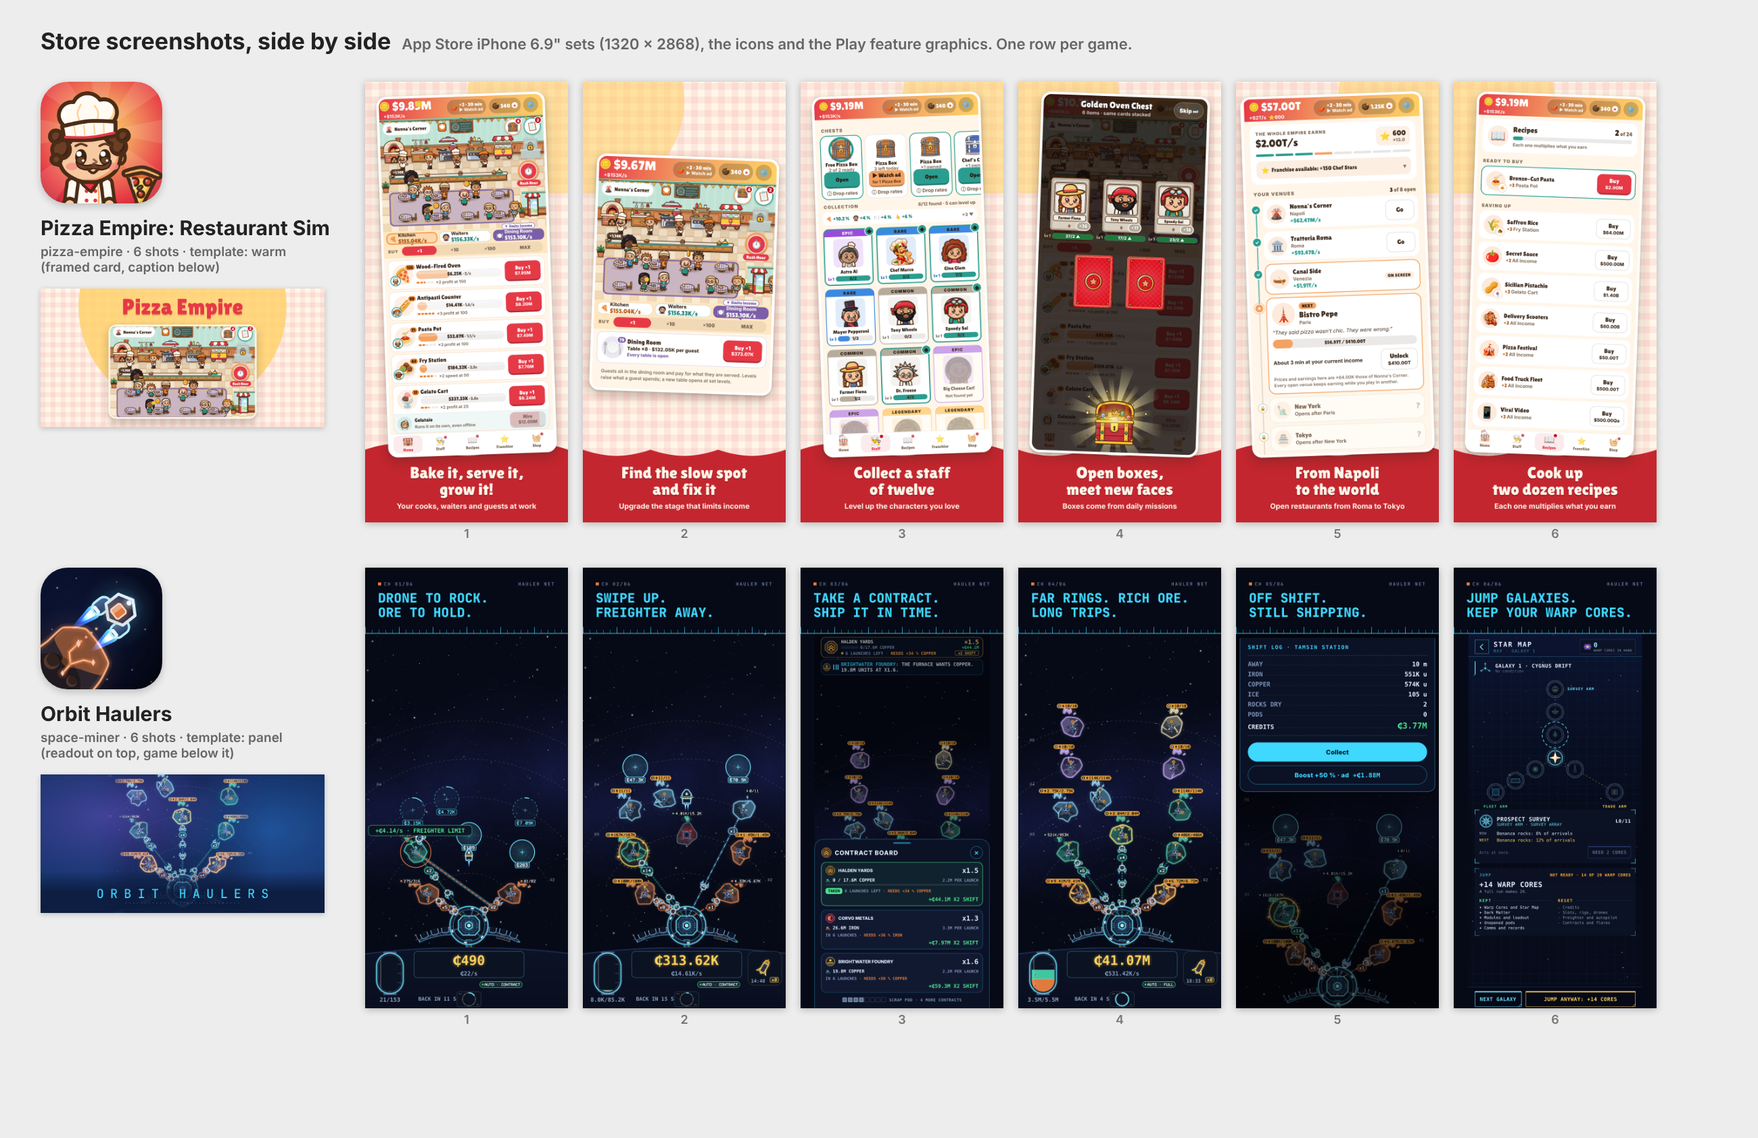
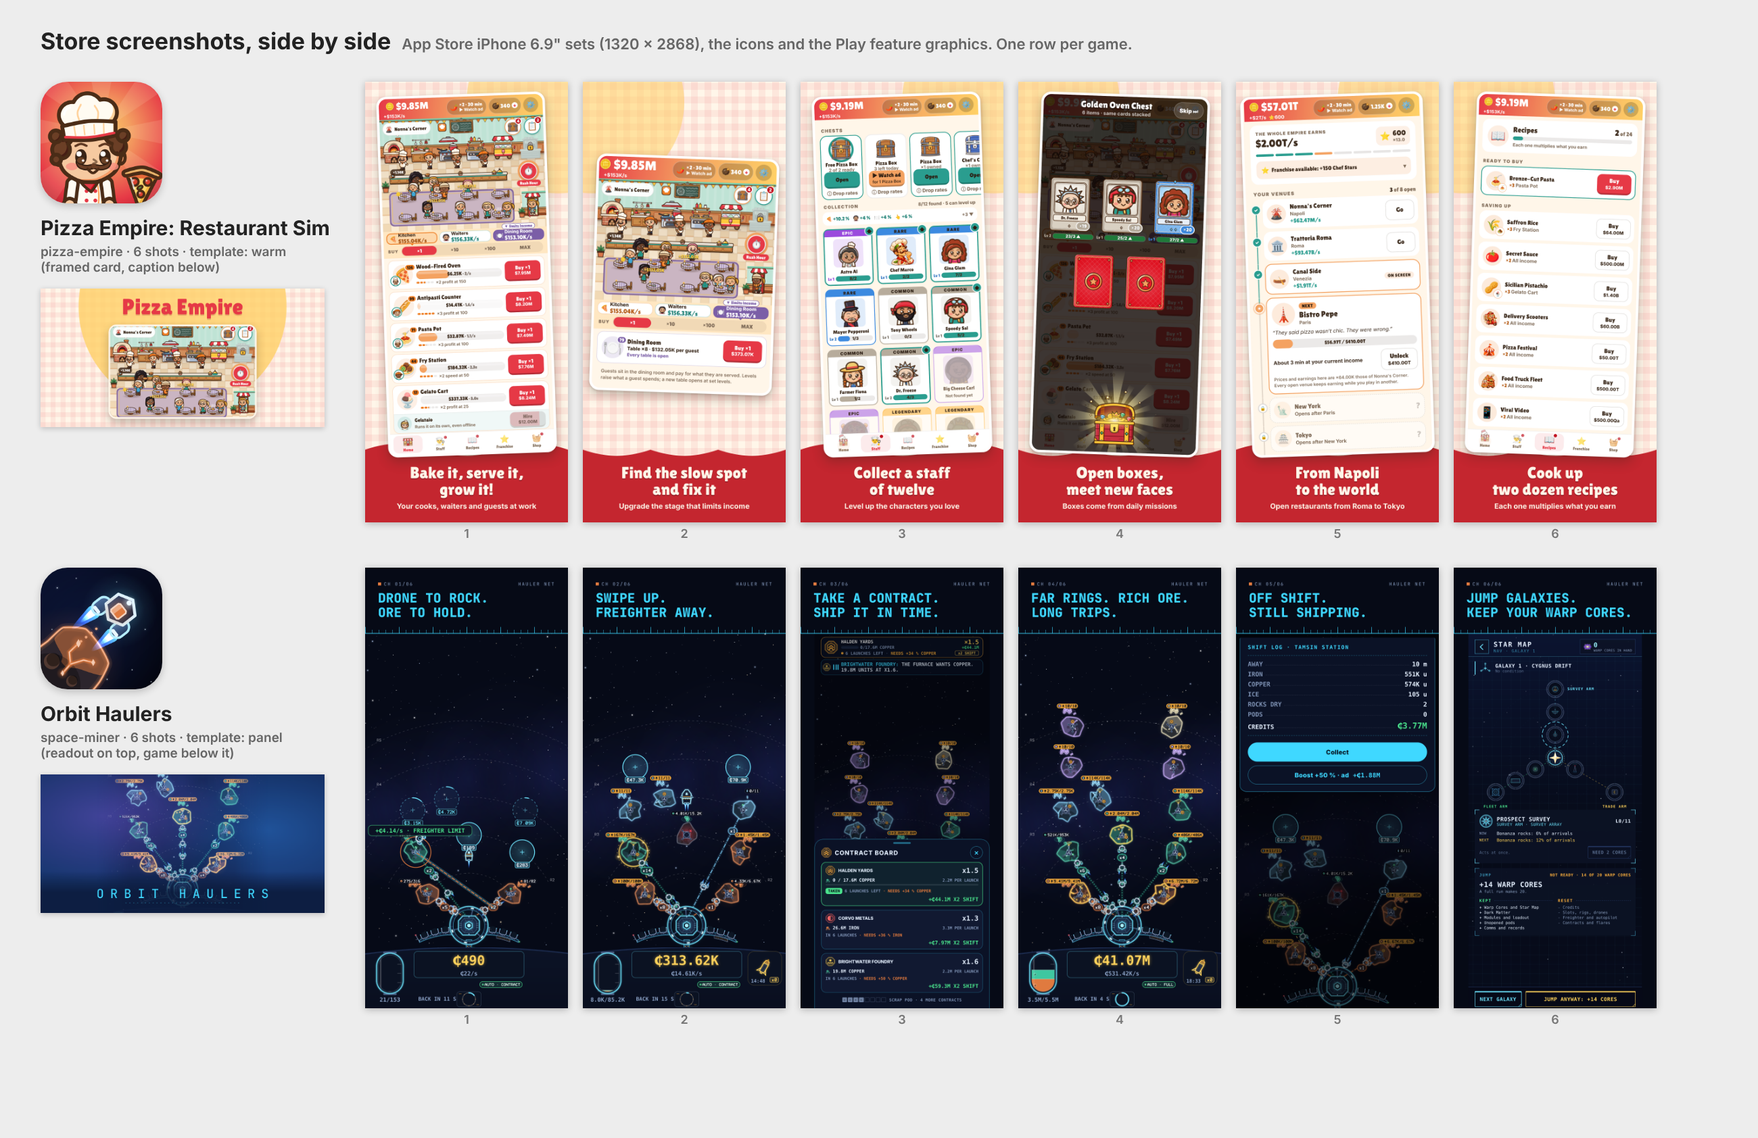
WIP: store screenshots on the final builds; final rules pass in progress
Claude-Session: https://claude.ai/code/session_01DEV5UwHtj2bSoyrJab4q6m

diff --git a/src/engine/haul.audit3.test.ts b/src/engine/haul.audit3.test.ts
@@ -137,9 +137,11 @@ describe('audit 3: the board offers a choice (Decision 40, play-7)', () => {
     // minutes to two hours that do, at least 15 % of 300 draws want two ores; one such station must
     // exist. On every one of them the offers want at least two different ores.
     const at = [1200, 1500, 1800, 2400, 3000, 3600, 5400, 7200];
-    const r = runHaulBot(cfg, { hours: 7210 / 3600, prestige: false, seed: 12345, keepAt: at, noOffline: true });
+    // Fourth rules check (NEW[5]): seed 12345's bot never ships three ores by two hours (copper and
+    // iron only), so seed 99 (three ores at 90 minutes) is searched too, and one station must qualify.
     let stations = 0;
-    for (const t of at) {
+    const runs = [12345, 99].map((seed) => runHaulBot(cfg, { hours: 7210 / 3600, prestige: false, seed, keepAt: at, noOffline: true }));
+    for (const [r, t] of runs.flatMap((r) => at.map((t) => [r, t] as const))) {
       const g = r.states[t] as Run;
       const b = H.contractBasis(cfg, H.haulParams(cfg, g), g.haul);
       const total = Object.values(b.recent).reduce((a, x) => a + x, 0);
@@ -189,7 +191,10 @@ describe('the board is never empty (the lead, finishing round)', () => {
             // second ore brings more (boardNote); every other station keeps at least two offers.
             // (A board drawn while two ores shipped keeps its offers until they expire; no new one comes.)
             if (H.boardNote(cfg, g) === 'secondOre') expect(g.haul.contracts.board.length, `seed ${seed} t=${t} warp ${warps}`).toBeGreaterThanOrEqual(1);
-            else expect(offers, `seed ${seed} t=${t} warp ${warps}`).toBeGreaterThanOrEqual(2);
+            // Fourth rules check (the lead's ruling on NEW[1]): a place that cannot be filled without
+            // a duplicate or a free offer stays empty until the next warp-out, so a station whose
+            // other ores have no room may show one offer (next to its taken contract); never none.
+            else expect(offers, `seed ${seed} t=${t} warp ${warps}`).toBeGreaterThanOrEqual(1);
           }
         }
         expect(warps).toBe(3);

diff --git a/src/engine/haul.decision64.test.ts b/src/engine/haul.decision64.test.ts
@@ -285,6 +285,12 @@ describe('the freighter bounds every order (the play confirmation after Decision
         const h: H.HaulState = { ...g0.haul, contracts: { ...g0.haul.contracts, unlocked: true, board: [offer], next: 12, active: null } };
         H.refloorOffers(cfg, p, h);
         const after = h.contracts.board[0];
+        // Fourth rules check (the lead's ruling on NEW[1]): an offer the resize cannot lift out of
+        // green within the holds leaves the board (its place waits for the next warp-out).
+        if (!after) {
+          expect(st[ore] * (1 + C.raise[0] / 2)).toBeGreaterThan(p.F * C.maxShare * 0.9);
+          continue;
+        }
         expect(after.wants[0].units).toBeLessThanOrEqual(Math.max(offer.wants[0].units, Math.floor(L * p.F * C.maxShare)));
         fits({ ...g0, haul: h }, after);
       }

diff --git a/src/engine/haul/trade.ts b/src/engine/haul/trade.ts
@@ -1127,7 +1127,8 @@ export function refloorOffers(cfg: HaulConfig, params: HaulParams, h: HaulState)
       for (let j = 0; j < i; j++) {
         const u = V[j];
         if (drop.has(j) || u.contract.taken || keyOf(u.contract) !== keyOf(v.contract)) continue;
-        if (Math.abs(raiseOf(u) - raiseOf(v)) < C.raiseGap - 1e-6 || raiseOf(u) === raiseOf(v)) drop.add(i);
+        // (An ore with no route has no raise figure: such offers are never compared.)
+        if (Number.isFinite(raiseOf(u)) && Number.isFinite(raiseOf(v)) && Math.abs(raiseOf(u) - raiseOf(v)) < C.raiseGap - 1e-6) drop.add(i);
       }
     });
     if (drop.size) {

diff --git a/scripts/store/README.md b/scripts/store/README.md
@@ -14,8 +14,11 @@ export served as static files: it has no development overlays at all.
 GAME=pizza-empire npx expo export -p web --output-dir /tmp/web-pizza-empire
 GAME=space-miner  npx expo export -p web --output-dir /tmp/web-space-miner
 npx serve /tmp/web-pizza-empire -l 8300 -s   # any static server; -s: single-page fallback
-npx serve /tmp/web-space-miner  -l 8301 -s
+npx serve /tmp/web-space-miner  -l 8302 -s
 ```
+
+The scenes' default ports: Pizza Empire 8300, Orbit Haulers 8302 (`--port N` for
+another one).
 
 (The preview switches the scenes use, `?preset=` and the rest, are read on any web
 build, not only in development: `src/dev/devtools.ts`, `src/ui/haul/dev.ts`. The
@@ -23,19 +26,24 @@ export path above was not run on this machine, where builds are not allowed; the
 images were made from development servers, `GAME=<id> npx expo start --web --port
 <port>`, which work too thanks to the overlay guard below.)
 
-Then ONE command makes every image of both games, into the repository:
+Then one command per game makes all of its images, into the repository:
 
 ```bash
-npx tsx scripts/store/shots.ts --game all --write
+npx tsx scripts/store/shots.ts --game pizza-empire --write   # 18 shots + feature graphic + the sheet
+npx tsx scripts/store/shots.ts --game space-miner --write    # 18 shots + feature graphic + the sheet
+npx tsx scripts/store/shots.ts --sheet --write               # only SIDE-BY-SIDE.png, from the images written
 ```
+
+(`--game all --write` does both. Careful: `--sheet` with `--game` still captures
+that game first; only `--sheet` alone makes just the sheet.)
 
 Without `--write` nothing in the repository changes: the images go to
 `scripts/store/.cache/out/<game>/` (git-ignored), so a trial run cannot replace the
 approved set. Options: `--out <dir>` (write to `<dir>/<game>/` instead),
-`--game pizza-empire|space-miner`, `--port N` (another preview port), `--only 1,3`
+`--game pizza-empire|space-miner|all`, `--port N` (another preview port), `--only 1,3`
 (scenes, 1-based), `--sizes ios-6.9,play-phone`, `--reuse` (compose again from the
 last captures, no preview needed: for template work), `--sheet` (only the
-side-by-side sheet). The log first says how many scenes and images the run makes.
+side-by-side sheet; without `--game`). The log first says how many scenes and images the run makes.
 A full run of both games takes about 10 to 15 minutes on a busy machine.
 
 A full run of a game (no `--only`) with `--write` also removes images of scenes
@@ -66,8 +74,18 @@ run bit-for-bit repeatable (freezing the game's clock needs a switch in the game
 Playwright's fake clock was tried and made each scene take minutes while still
 varying). What must be true of a picture is checked instead: a scene can carry a
 `check` on the page text (Orbit Haulers' Contract Board must show three different
-buyers and an active manifest; the launch shot must have launched; Pizza Empire's
-bottleneck shot must show "limits income"), and is taken again up to `tries` times.
+buyers with a TAKEN row first; the launch shot must have launched, read 1.5 s after
+the picture with `checkAfter`; the far-rings shot must have no radio line over the
+top of the field; Pizza Empire's bottleneck shot must show "limits income"), and is
+taken again up to `tries` times.
+
+Two moments are faster than the usual capture (three frames drawn at the store's
+pixel ratio, which take seconds on a busy machine): Orbit Haulers' freighter climbs
+for 2.5 s, and Pizza Empire's tutorial hand comes back 600 ms after a touch. Those
+scenes set `shotFrames: 1` (one frame, still sharp). Even so the freighter's place
+varies from run to run (on the pad, mid-field, or already gone): look at shot 2 of
+every size after a run and take it again (`--only 2 --sizes <size>`) until the
+freighter is over the field. The 6.9" image of 2026-11-22 was picked from five takes.
 
 ## What it writes
 
@@ -81,7 +99,7 @@ scripts/store/.cache/<game>/<size>/NN-<slug>.png/.json  raw captures and the ban
 scripts/store/.cache/out/                               trial runs (git-ignored)
 ```
 
-Pizza Empire has six shots, Orbit Haulers five.
+Each game has six shots (in a different story order and template).
 
 Every image is an 8-bit RGB PNG without an alpha channel (App Store Connect
 refuses alpha; Play asks for 24-bit PNG). The tool checks size and colour type
@@ -94,7 +112,9 @@ of each file it writes.
   the steps to reach the moment (taps, drags, a finger held down, waits, and
   `untilText`: wait for the app's own text, e.g. the freighter's "BACK IN n S"
   to go; `tapText`: a touch on the first text that matches, wherever the layout
-  put it), an optional `check` of the page text, the `frame` (the band of the
+  put it, or the `nth` match), an optional `check` of the page text (`checkAfter`:
+  read that many ms after the picture), `shotFrames` (frames drawn at the store's
+  pixel ratio before the picture, default 3), the `frame` (the band of the
   screen the image shows, below), the caption (at most six words) and, for Pizza
   Empire, the sub-line. Each game also names its feature graphic's scene and band.
   Orbit Haulers' touches and bands are placed with the game's own geometry
@@ -132,12 +152,12 @@ They differ in composition, not only in colour, and so do the two sets:
 
 | | Pizza Empire, "warm" | Orbit Haulers, "panel" |
 |---|---|---|
-| Set | six shots: restaurant, bottleneck, staff, chests, franchise, recipes | five shots: the full field, a drag, the Contract Board, the launch, the Star Map |
+| Set | six shots: restaurant, bottleneck, staff, chests, franchise, recipes | six shots: a drag (the first minutes), the launch, the Contract Board, the far rings, the Shift Log, the Star Map |
 | Game picture | framed: the phone screen on a white-edged rounded card with a soft shadow, leaning left and right in turn; a scene that shows a band of its screen gets a wider, shorter card | edge to edge under the readout, square corners, cropped to the band that matters (no empty starfield, no nav row) |
 | Caption position | below the picture, on a deep tomato sauce wave (the wave's highest bump at about 82 % of the height: the caption block is at most 18 % of the image, measured) | above the picture, on a hard-edged deep-blue readout panel (15 % of the 6.9" image, 18 % of the Play one); the panel never covers the game |
 | Type | Lilita One (the game's rounded display face), centred, sentence case, two lines; a cream sub-line in Inter Bold (5.4:1 on the band) | JetBrains Mono ExtraBold, left-aligned, capitals; headline only, no sub-line |
 | Colour | cream gingham, saffron sun, deep tomato #C4262F | deep blue #060A16, cyan #3FD8FF, amber #E07A3F |
-| Ornament and counter | none but the card; no set counter | channel counter "CH 01/05" (the only set counter of the two), tick-marked cyan rule |
+| Ornament and counter | none but the card; no set counter | channel counter "CH 01/06" (the only set counter of the two), tick-marked cyan rule |
 | Rhythm across the set | the card leans left, right, left...; the sun and the wave's bumps swap sides | rigid: every image on the same grid, like a log, the channel number counting up |
 | Feature graphic | centred and symmetric: the name in Lilita One over a big saffron sun, a wide crop of the restaurant scene under it (no phone, no tilt), on gingham; no icon, no tagline | the asteroid field around the station, its edges fading into a deep-blue nebula (#0B1A3A, the game's black space lifted by a screen blend), a thin letter-spaced cyan wordmark in the lower third; no icon, no tagline |
 
@@ -155,11 +175,11 @@ Each caption was checked against the picture the tool made.
 
 | # | Caption / sub-line | Address | Shows |
 |---|---|---|---|
-| 1 | Bake it, serve it, grow it! / Your cooks, waiters and guests at work | `preset=mid` | The restaurant at work: cooks at the stations, waiters carrying pizza, guests at the tables, the production chain and its upgrades below. |
-| 2 | Find the slow spot and fix it / Upgrade the stage that limits income | `preset=mid`, tap the "Dining Room" pill; band: top of the screen to the stage's description; check: "limits income" on screen | The busy restaurant with its bottleneck stage open: the Dining Room pill carries the game's "limits income" tag, its row offers the upgrade. The list under one stage is short, so the card shows the screen down to the stage's text (no empty cream; the earlier `preset=early` version had the tutorial hand on). |
+| 1 | Bake it, serve it, grow it! / Your cooks, waiters and guests at work | `preset=mid`; two touches on the "BUY" label (it does nothing), one frame | The restaurant at work: cooks at the stations, waiters carrying pizza, guests at the tables, the production chain and its upgrades below. The game's tutorial hand (which keeps pointing at the missions clipboard on a preset save: `nextHint` in `src/engine/meta.ts` counts it as a new player) hides for 600 ms after a touch, so the picture has no hand. |
+| 2 | Find the slow spot and fix it / Upgrade the stage that limits income | `preset=mid`, tap the "Dining Room" pill, then the "BUY" label (no hand), one frame; band: top of the screen to the stage's description; check: "limits income" on screen | The busy restaurant with its bottleneck stage open: the Dining Room pill carries the game's "limits income" tag, its row offers the upgrade. The list under one stage is short, so the card shows the screen down to the stage's text (no empty cream; the earlier `preset=early` version had the tutorial hand on). |
 | 3 | Collect a staff of twelve / Level up the characters you love | `preset=mid&tab=staff` | The Staff tab: chests and the collection of twelve characters (8/12 found, "can level up" marks). |
-| 4 | Open boxes, meet new faces / Boxes come from daily missions | `preset=mid&chest=golden`, two taps | A Golden Oven Chest being opened. Missions reward boxes ("Every 30th mission: Golden Oven Chest"). |
-| 5 | From Napoli all the way up / Eight restaurants, one pizza planet | `preset=mid&tab=empire` | The Franchise tab: Nonna's Corner in Napoli, then Roma, Venezia, Paris, New York, Tokyo, The Moon ("1 of 8 open"). |
+| 4 | Open boxes, meet new faces / Boxes come from daily missions | `preset=mid&chest=golden`, two taps | A Golden Oven Chest being opened. Missions reward boxes ("Every 30th mission: Golden Oven Chest"). What the chest holds varies by run; on the 2026-11-22 Play image two cash cards ("+$229.95M", "+$189.84M") show their amounts whole (the game now sizes that label by hand). |
+| 5 | From Napoli to the world / Open restaurants from Roma to Tokyo | `preset=late&tab=empire`; band: top of the screen to below Tokyo's row; check: Canal Side, Bistro Pepe and Tokyo on screen | The Franchise tab of a late save: Nonna's Corner (Napoli), Trattoria Roma and Canal Side (Venezia, on screen) open and earning, Bistro Pepe in Paris next, New York and Tokyo after it ("3 of 8 open"). The picture stops at Tokyo: the two venues after it (The Moon, Deep Space) are not shown or named, so the listing does not reach into space next to the same developer's space game. On the Play size the card ends at Bistro Pepe (the screen is shorter). |
 | 6 | Cook up two dozen recipes / Each one multiplies what you earn | `preset=mid&tab=upgrades` | The Recipes tab: "2 of 24", each recipe a multiplier. |
 
 Feature graphic: scene 1's restaurant, from the "Nonna's Corner" plate to just
@@ -167,16 +187,25 @@ above the stage pills.
 
 ### Orbit Haulers (panel, cold instrument)
 
+The set's story: what the player does in the first minutes (a drone to a rock, the
+freighter away), then contracts, the far rings, the autopilot's Shift Log and the
+Star Map. Words in the pictures are the game's own (`src/ui/haul/strings.ts`). The
+radio's first tutorial line ("Drone idle on the rack. Send it to the rock.") still
+plays on the mid and late presets: the field shots leave the radio slot out of the
+band, and the Contract Board and far-rings scenes wait for it to close.
+
 | # | Caption | Address and steps | Shows |
 |---|---|---|---|
-| 1 | Far rings. Rich ore. Long trips. | `preset=late`; field band | Every ring in use: iron, copper, ice, titanium and platinum rocks, drones in flight, the hold and the counter. Also the feature graphic's picture. |
-| 2 | Drone to rock. Ore to hold. | `preset=mid`; finger down on the route chip of slot 1, dragged onto the rock of slot 6 (first move past the slop in one event), held; check: the rig sheet did not open; field band | A running station: a drone pulled off a busy route onto a rock further out, the drag line and the target ring drawn. (The mid save's rack is empty, every drone is out, so the drone comes off a chip, which the game allows.) |
-| 3 | Buyers on the line. They lapse. | `preset=late&sheet=contracts&speed=6`, tap the first manifest ("if met"); band: top of the screen to the board's last line; check: three different buyers and an active manifest | The Contract Board over a late field: three buyers, the manifest just made ACTIVE, what each pays if met, the launches left; the contract strip and the buyer's radio line at the top. (At normal speed the late save's board shows the same buyer twice; `speed=6` lets the board turn over before the picture.) |
-| 4 | Swipe up. Freighter away. | `preset=mid`; wait until docked (no "BACK IN n S") and 1.5 s more, the launch swipe as one move, picture about 100 ms later; check: launched, no "CONTRACT MET" banner over the counter; field band | Just after the launch: the hold emptied, "BACK IN n S" on the bay, the freighter climbing off the pad (on a slow capture it is already out of the frame: the 6.5" image of this run). |
-| 5 | Jump. Pick the next galaxy. | `preset=late&spoke=starmap`, the "JUMP NOW" button scrolled into view (below the fold on the Play size); band: top of the screen to that button, shown whole (Play: the screen a little narrower than the image) | The Star Map with its own header (back, "STAR MAP · NAV · GALAXY 1", Warp Cores in hand, the galaxy plate), the nodes, "JUMP NOW: +24 WARP CORES", kept and reset lists. |
+| 1 | Drone to rock. Ore to hold. | `preset=early`; finger down on the route chip of slot 1, dragged onto the rock of slot 2 (first move past the slop in one event), held; check: the rig sheet did not open; field band | The first minutes: an early station (three rocks on the inner rings, ₵490, empty claim slots with their prices), a drone pulled off one route onto another rock, the drag line and its gain ("+₵4.14/s · FREIGHTER LIMIT"). |
+| 2 | Swipe up. Freighter away. | `preset=mid`; wait until docked (no "BACK IN n S") and 1.5 s more, the launch swipe as one move, picture after one frame (`shotFrames: 1`); check 1.5 s later: launched ("BACK IN n S" or WARPED), no "CONTRACT MET" banner; field band | The freighter climbing off the pad over the field, "BACK IN 15 S" on the bay. The freighter's height varies by run (see "Live state and retakes"). |
+| 3 | Take a contract. Ship it in time. | `preset=late`; wait for the tutorial line to close, tap "PICK A CONTRACT" on the strip, then the second row's rate; band: top of the screen to the pod counter; check: three different buyers, TAKEN row first, pod counter, no tutorial line | The Contract Board as rows: the TAKEN row first (Halden Yards, "0 / 17.6M COPPER", "6 LAUNCHES LEFT · NEEDS +34 % COPPER", "+₵44.1M X2 SHIFT"), two more buyers ("IN 6 LAUNCHES · NEEDS +n % ORE"), the pod counter's stamp boxes ("SCRAP POD · 4 MORE CONTRACTS"); at the top the contract strip with the same contract (delivered, launches left, the pace light) and a buyer's radio call. On the Play size the sheet shows the TAKEN row and the next one (the rest is below the sheet's fold). |
+| 4 | Far rings. Rich ore. Long trips. | `preset=late`; wait until no radio line is up; check: none; field band | Every ring in use: copper, iron, ice, titanium and platinum rocks out to ring 5, drones in flight, the hold and ₵41.07M. Also the feature graphic's picture. |
+| 5 | Off shift. Still shipping. | `preset=mid&away=600` (the store's own offline computation for a save ten minutes old); band: top of the screen to just above the hold and the counter, zoomed up to 1.25x; check: "SHIFT LOG" and "Boost +50 % · ad" | The Shift Log ("SHIFT LOG · TAMSIN STATION": AWAY 10 m, iron, copper, ice hauled, ROCKS DRY 2, PODS 0, CREDITS ₵3.77M, "Collect", "Boost +50 % · ad +₵1.88M") over the dimmed field. The mid save has the Dock Autopilot (without it the log says "Nothing shipped"). |
+| 6 | Jump galaxies. Keep your Warp Cores. | `preset=late&spoke=starmap`; the Kept list scrolled into view (only moves on the Play size); band: top of the screen to the Jump keys in the footer | The Star Map: header (back, "STAR MAP · NAV · GALAXY 1", Warp Cores in hand, the galaxy plate), the node tree and a node's card, the Jump panel ("NOT READY · 14 OF 20 WARP CORES", "+14 WARP CORES", Kept: "Warp Cores and Star Map" first, Reset), and the footer's "NEXT GALAXY" and "JUMP ANYWAY: +14 CORES". |
 
-The Shift Log shot of the earlier set was dropped (five shots, a different story
-from Pizza Empire's six). No sentence is shared between the two games' captions.
+The feature graphic prints only the name, no subtitle (the listing's subtitle,
+"Space mining by drone routes", is in `games/space-miner/game.json`). No sentence is
+shared between the two games' captions.
 
 ## Sizes and where they come from
 
@@ -256,6 +285,12 @@ What would differ on a phone:
   status bar (full battery, no notification icons, a neutral time).
 - Live numbers (cash, rates, timers, the station's name in Orbit Haulers) come
   from the presets and differ a little on every run; that is expected.
+- Before a release, on a device: Orbit Haulers shot 2 (the freighter mid-climb,
+  timing-dependent here), shot 3 on the Play size (a taller phone shows all three
+  rows and the pod counter), and shot 6 with a Jump that is ready ("JUMP NOW")
+  if the release wants the Jump itself in the picture; Pizza Empire shot 4 (what
+  the chest holds is random: check any cash amount is whole on the narrowest
+  phone) and shot 5 on the Play size (shorter screen: the card ends at Paris).
 
 To retake on a device: put the device screenshot in
 `scripts/store/.cache/<game>/<size>/NN-<slug>.png`, next to the `.json` the tool
